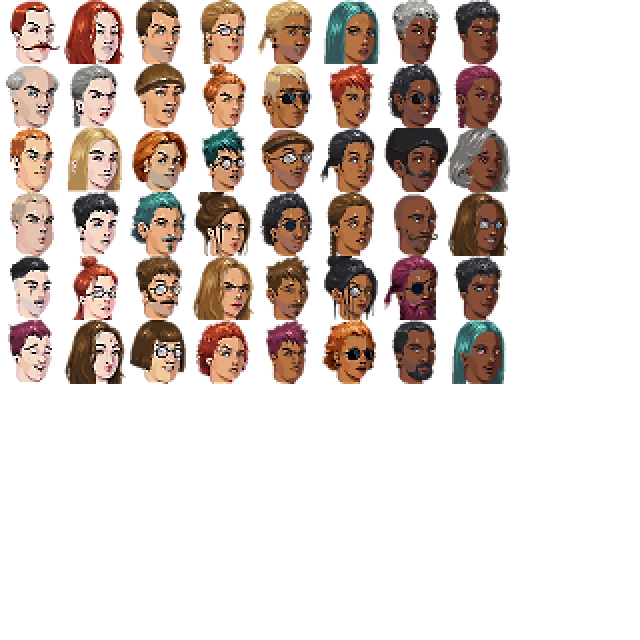
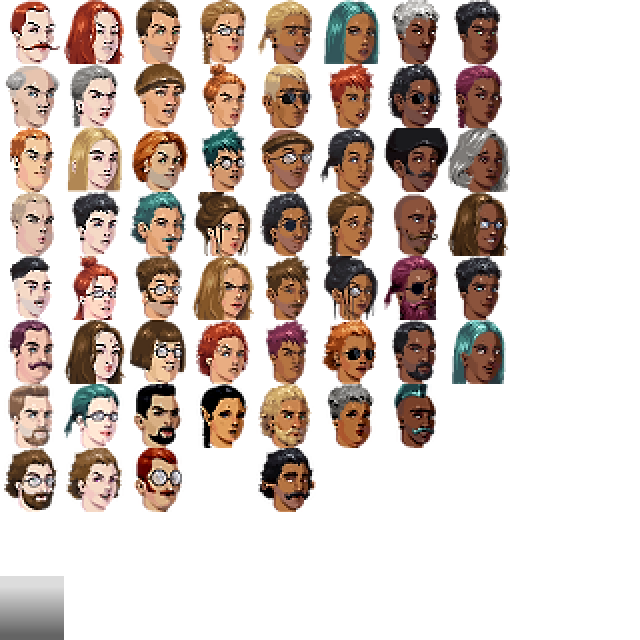
converse additions

diff --git a/src/main/kotlin/render/tilesets/PortraitTileSet.kt b/src/main/kotlin/render/tilesets/PortraitTileSet.kt
@@ -4,6 +4,7 @@ import render.tileholders.SimpleTile
 
 fun PortraitTileSet() =
     TileSet(SpriteSheets.Sheet.PortraitSprites).apply {
+        setTile(Glyph.PORTRAIT_SHADE, SimpleTile(this, 0, 9))
 
         setTile(Glyph.PORTRAIT_PALE_M_1, SimpleTile(this, 0, 0))
         setTile(Glyph.PORTRAIT_PALE_M_2, SimpleTile(this, 0, 1))
@@ -11,6 +12,8 @@ fun PortraitTileSet() =
         setTile(Glyph.PORTRAIT_PALE_M_4, SimpleTile(this, 0, 3))
         setTile(Glyph.PORTRAIT_PALE_M_5, SimpleTile(this, 0, 4))
         setTile(Glyph.PORTRAIT_PALE_M_6, SimpleTile(this, 0, 5))
+        setTile(Glyph.PORTRAIT_PALE_M_7, SimpleTile(this, 0, 6))
+        setTile(Glyph.PORTRAIT_PALE_M_8, SimpleTile(this, 0, 7))
 
         setTile(Glyph.PORTRAIT_PALE_W_1, SimpleTile(this, 1, 0))
         setTile(Glyph.PORTRAIT_PALE_W_2, SimpleTile(this, 1, 1))
@@ -18,6 +21,8 @@ fun PortraitTileSet() =
         setTile(Glyph.PORTRAIT_PALE_W_4, SimpleTile(this, 1, 3))
         setTile(Glyph.PORTRAIT_PALE_W_5, SimpleTile(this, 1, 4))
         setTile(Glyph.PORTRAIT_PALE_W_6, SimpleTile(this, 1, 5))
+        setTile(Glyph.PORTRAIT_PALE_W_7, SimpleTile(this, 1, 6))
+        setTile(Glyph.PORTRAIT_PALE_W_8, SimpleTile(this, 1, 7))
 
         setTile(Glyph.PORTRAIT_WHITE_M_1, SimpleTile(this, 2, 0))
         setTile(Glyph.PORTRAIT_WHITE_M_2, SimpleTile(this, 2, 1))
@@ -25,6 +30,8 @@ fun PortraitTileSet() =
         setTile(Glyph.PORTRAIT_WHITE_M_4, SimpleTile(this, 2, 3))
         setTile(Glyph.PORTRAIT_WHITE_M_5, SimpleTile(this, 2, 4))
         setTile(Glyph.PORTRAIT_WHITE_M_6, SimpleTile(this, 2, 5))
+        setTile(Glyph.PORTRAIT_WHITE_M_7, SimpleTile(this, 2, 6))
+        setTile(Glyph.PORTRAIT_WHITE_M_8, SimpleTile(this, 2, 7))
 
         setTile(Glyph.PORTRAIT_WHITE_W_1, SimpleTile(this, 3, 0))
         setTile(Glyph.PORTRAIT_WHITE_W_2, SimpleTile(this, 3, 1))
@@ -32,6 +39,7 @@ fun PortraitTileSet() =
         setTile(Glyph.PORTRAIT_WHITE_W_4, SimpleTile(this, 3, 3))
         setTile(Glyph.PORTRAIT_WHITE_W_5, SimpleTile(this, 3, 4))
         setTile(Glyph.PORTRAIT_WHITE_W_6, SimpleTile(this, 3, 5))
+        setTile(Glyph.PORTRAIT_WHITE_W_7, SimpleTile(this, 3, 6))
 
         setTile(Glyph.PORTRAIT_TAN_M_1, SimpleTile(this, 4, 0))
         setTile(Glyph.PORTRAIT_TAN_M_2, SimpleTile(this, 4, 1))
@@ -39,6 +47,8 @@ fun PortraitTileSet() =
         setTile(Glyph.PORTRAIT_TAN_M_4, SimpleTile(this, 4, 3))
         setTile(Glyph.PORTRAIT_TAN_M_5, SimpleTile(this, 4, 4))
         setTile(Glyph.PORTRAIT_TAN_M_6, SimpleTile(this, 4, 5))
+        setTile(Glyph.PORTRAIT_TAN_M_7, SimpleTile(this, 4, 6))
+        setTile(Glyph.PORTRAIT_TAN_M_8, SimpleTile(this, 4, 7))
 
         setTile(Glyph.PORTRAIT_TAN_W_1, SimpleTile(this, 5, 0))
         setTile(Glyph.PORTRAIT_TAN_W_2, SimpleTile(this, 5, 1))
@@ -46,6 +56,7 @@ fun PortraitTileSet() =
         setTile(Glyph.PORTRAIT_TAN_W_4, SimpleTile(this, 5, 3))
         setTile(Glyph.PORTRAIT_TAN_W_5, SimpleTile(this, 5, 4))
         setTile(Glyph.PORTRAIT_TAN_W_6, SimpleTile(this, 5, 5))
+        setTile(Glyph.PORTRAIT_TAN_W_7, SimpleTile(this, 5, 6))
 
         setTile(Glyph.PORTRAIT_BLACK_M_1, SimpleTile(this, 6, 0))
         setTile(Glyph.PORTRAIT_BLACK_M_2, SimpleTile(this, 6, 1))
@@ -53,6 +64,7 @@ fun PortraitTileSet() =
         setTile(Glyph.PORTRAIT_BLACK_M_4, SimpleTile(this, 6, 3))
         setTile(Glyph.PORTRAIT_BLACK_M_5, SimpleTile(this, 6, 4))
         setTile(Glyph.PORTRAIT_BLACK_M_6, SimpleTile(this, 6, 5))
+        setTile(Glyph.PORTRAIT_BLACK_M_7, SimpleTile(this, 6, 6))
 
         setTile(Glyph.PORTRAIT_BLACK_W_1, SimpleTile(this, 7, 0))
         setTile(Glyph.PORTRAIT_BLACK_W_2, SimpleTile(this, 7, 1))

diff --git a/src/main/kotlin/ui/modals/ConverseModal.kt b/src/main/kotlin/ui/modals/ConverseModal.kt
@@ -9,6 +9,7 @@ import kotlinx.coroutines.launch
 import ktx.async.KtxAsync
 import render.Screen
 import render.batches.QuadBatch
+import render.tilesets.Glyph
 import ui.input.Keydef
 import ui.input.Mouse
 import util.Stack
@@ -66,7 +67,7 @@ class ConverseModal(
     val optionSpacing = 32
     val headerPad = 50
     val portraitSize = 96
-    val portraitXpad = if (portrait == null) 0 else 112
+    val portraitXpad = if (portrait == null) 0 else 120
 
     init {
         zoomWhenOpen = 1.8f
@@ -95,6 +96,8 @@ class ConverseModal(
         }
         if (topicStack.isNotEmpty()) {
             nextOptions.add(Option("back", if (nextOptions.isEmpty()) "Anyway..." else "Never mind."))
+        } else if (talker.willTrade()) {
+            nextOptions.add(Option("trade", talker.tradeMsg()) { openTrade() } )
         }
         nextOptions.add(Option("bye", "Goodbye.") { endConversation() })
 
@@ -106,6 +109,11 @@ class ConverseModal(
         log.info("text: ${scene?.text}")
         log.info("options: ${scene?.options}")
         log.info("portrait: ${talker.portraitGlyph()}")
+    }
+
+    fun openTrade() {
+        dismiss()
+        Screen.addModal(TradeModal(talker))
     }
 
     fun endConversation() {
@@ -170,7 +178,7 @@ class ConverseModal(
         val localX = screenX - x
         val localY = screenY - y
         if (localX in 1 until width) {
-            val hoverOption = (localY - optionStartY - 1) / optionSpacing
+            val hoverOption = (localY - optionStartY + 4) / optionSpacing
             if (hoverOption in 0..maxSelection) {
                 return hoverOption
             }
@@ -195,7 +203,7 @@ class ConverseModal(
             scene.options.forEach { option ->
                 drawString(
                     option.question, padding, optionStartY + n * optionSpacing,
-                    if (n == selection) Screen.fontColorBold else Screen.fontColor
+                    if (n == selection) Screen.fontColorBold else Screen.fontColorDull
                 )
                 n++
             }
@@ -204,16 +212,24 @@ class ConverseModal(
 
     override fun drawBackground() {
         super.drawBackground()
-        val boxPadding = -2
-        val boxY = optionStartY + optionSpacing * selection
-        if (!isAnimating() && selection >= 0) {
-            drawSelectionBox(padding - boxPadding, boxY - boxPadding,
-                width - (padding*2) + boxPadding*2 - 4, optionSpacing + boxPadding*2 - 4)
+        if (!isAnimating()) {
+            val boxPadding = -2
+            val boxY = optionStartY + optionSpacing * selection
+            if (selection >= 0) {
+                drawSelectionBox(
+                    padding - boxPadding, boxY - boxPadding,
+                    width - (padding * 2) + boxPadding * 2 - 4, optionSpacing + boxPadding * 2 - 4
+                )
+            }
         }
     }
 
     private fun drawPortrait() {
+        val shadePad = 8
         portrait?.also { portrait ->
+            portraitBatch.addPixelQuad(x + padding - shadePad, y + padding + headerPad - shadePad,
+                x + padding + portraitSize + shadePad, y + padding + headerPad + portraitSize + shadePad, portraitBatch.getTextureIndex(
+                    Glyph.PORTRAIT_SHADE))
             portraitBatch.addPixelQuad(x + padding, y + padding + headerPad,
                 x + padding + portraitSize, y + padding + headerPad + portraitSize, portraitBatch.getTextureIndex(portrait))
         }

diff --git a/src/main/kotlin/render/tilesets/Glyph.kt b/src/main/kotlin/render/tilesets/Glyph.kt
@@ -70,6 +70,7 @@ enum class Glyph {
     HOSTILE_OTHER_ICON,
     FLEEING_ICON,
     QUESTION_ICON,
+    TRADE_ICON,
     INVENTORY_ALL,
     INVENTORY_GEAR,
     INVENTORY_TOOLS,
@@ -298,53 +299,70 @@ enum class Glyph {
     MAP_COLOR_14,
     MAP_COLOR_15,
 
+    PORTRAIT_SHADE,
     PORTRAIT_PALE_M_1,
     PORTRAIT_PALE_M_2,
     PORTRAIT_PALE_M_3,
     PORTRAIT_PALE_M_4,
     PORTRAIT_PALE_M_5,
     PORTRAIT_PALE_M_6,
+    PORTRAIT_PALE_M_7,
+    PORTRAIT_PALE_M_8,
     PORTRAIT_PALE_W_1,
     PORTRAIT_PALE_W_2,
     PORTRAIT_PALE_W_3,
     PORTRAIT_PALE_W_4,
     PORTRAIT_PALE_W_5,
     PORTRAIT_PALE_W_6,
+    PORTRAIT_PALE_W_7,
+    PORTRAIT_PALE_W_8,
     PORTRAIT_WHITE_M_1,
     PORTRAIT_WHITE_M_2,
     PORTRAIT_WHITE_M_3,
     PORTRAIT_WHITE_M_4,
     PORTRAIT_WHITE_M_5,
     PORTRAIT_WHITE_M_6,
+    PORTRAIT_WHITE_M_7,
+    PORTRAIT_WHITE_M_8,
     PORTRAIT_WHITE_W_1,
     PORTRAIT_WHITE_W_2,
     PORTRAIT_WHITE_W_3,
     PORTRAIT_WHITE_W_4,
     PORTRAIT_WHITE_W_5,
     PORTRAIT_WHITE_W_6,
+    PORTRAIT_WHITE_W_7,
+    PORTRAIT_WHITE_W_8,
     PORTRAIT_TAN_M_1,
     PORTRAIT_TAN_M_2,
     PORTRAIT_TAN_M_3,
     PORTRAIT_TAN_M_4,
     PORTRAIT_TAN_M_5,
     PORTRAIT_TAN_M_6,
+    PORTRAIT_TAN_M_7,
+    PORTRAIT_TAN_M_8,
     PORTRAIT_TAN_W_1,
     PORTRAIT_TAN_W_2,
     PORTRAIT_TAN_W_3,
     PORTRAIT_TAN_W_4,
     PORTRAIT_TAN_W_5,
     PORTRAIT_TAN_W_6,
+    PORTRAIT_TAN_W_7,
+    PORTRAIT_TAN_W_8,
     PORTRAIT_BLACK_M_1,
     PORTRAIT_BLACK_M_2,
     PORTRAIT_BLACK_M_3,
     PORTRAIT_BLACK_M_4,
     PORTRAIT_BLACK_M_5,
     PORTRAIT_BLACK_M_6,
+    PORTRAIT_BLACK_M_7,
+    PORTRAIT_BLACK_M_8,
     PORTRAIT_BLACK_W_1,
     PORTRAIT_BLACK_W_2,
     PORTRAIT_BLACK_W_3,
     PORTRAIT_BLACK_W_4,
     PORTRAIT_BLACK_W_5,
     PORTRAIT_BLACK_W_6,
+    PORTRAIT_BLACK_W_7,
+    PORTRAIT_BLACK_W_8,
 
 }

diff --git a/src/main/kotlin/world/quests/Quest.kt b/src/main/kotlin/world/quests/Quest.kt
@@ -28,6 +28,8 @@ sealed class Quest(
 
     var giverID: String? = null
 
+    var haggled = false // Did we haggle for the reward?
+
     // Do we need a specific giver assigned?
     open fun needsGiver() = true
 
@@ -60,6 +62,7 @@ sealed class Quest(
     open fun mentionMsg(): String = "I've got a job for you.  Interested?"
     open fun offerMsg(): String = "I need you to do a certain thing.  Will you help?"
     open fun thanksMsg(): String = "Thanks again for your help."
+    open fun haggleMsg(): String = "I don't have much, but I could possibly scrape up...$$$?  How does that sound?"
     open fun acceptMsg(): String = "Thanks, and good luck.  Come back when you've done it."
     open fun refuseMsg(): String = "That's too bad.  I suppose I'll find someone eventually."
     open fun remindMsg(): String = "You take care of that thing yet?"
@@ -76,8 +79,13 @@ sealed class Quest(
                 else -> null
             }
             "quest_${id}_offer" -> Scene(topic, offerMsg(), listOf(
+                Option("quest_${id}_haggle", "What's in it for Thundarr?") { haggled = true },
                 Option("quest_${id}_accept", "I'll see what I can do.") { this.accept() },
                 Option("quest_${id}_refuse", "I just don't have time.") { this.refuse() },
+            ))
+            "quest_${id}_haggle" -> Scene(topic, haggleMsg().replace("$$$", "\$${cashReward()}"), listOf(
+                Option("quest_${id}_accept", "It's a deal.") { this.accept() },
+                Option("quest_${id}_refuse", "Sorry, not worth it.") { this.refuse() },
             ))
             "quest_${id}_accept" -> Scene(topic, acceptMsg(), listOf())
             "quest_${id}_refuse" -> Scene(topic, refuseMsg(), listOf())

diff --git a/src/main/kotlin/actors/NPC.kt b/src/main/kotlin/actors/NPC.kt
@@ -175,6 +175,8 @@ sealed class NPC : Actor() {
 
     open fun hasConversation() = false
     open fun conversationSources(): List<ConverseModal.Source> = listOf()
+    open fun willTrade() = false
+    open fun tradeMsg() = "I have wares to trade, if barbarian has coin."
 
     override fun onConverse(actor: Actor): Boolean {
         if (actor is Player && hasConversation()) {
@@ -196,6 +198,7 @@ sealed class NPC : Actor() {
     override fun drawStatusGlyphs(drawIt: (Glyph) -> Unit) {
         super.drawStatusGlyphs(drawIt)
         if (hasConversation()) drawIt(Glyph.QUESTION_ICON)
+        if (willTrade()) drawIt(Glyph.TRADE_ICON)
         state.drawStatusGlyphs(drawIt)
     }
 

diff --git a/src/main/kotlin/actors/Citizen.kt b/src/main/kotlin/actors/Citizen.kt
@@ -94,8 +94,7 @@ sealed class Citizen : NPC(), ConverseModal.Source {
                 if (introducedToPlayer) "Hello again, Thundarr." else {
                     introducedToPlayer = true
                     "Nice to meet you Thundarr, I'm ${name()}."
-                },
-                listOf())
+                }, listOf())
         }
         return null
     }

diff --git a/src/main/kotlin/ui/modals/TradeModal.kt b/src/main/kotlin/ui/modals/TradeModal.kt
@@ -1,0 +1,15 @@
+package ui.modals
+
+import actors.NPC
+
+class TradeModal(
+    private val trader: NPC,
+    position: Modal.Position = Modal.Position.LEFT,
+) : Modal(
+    650, 400, trader.iname(),
+    position = position,
+) {
+
+
+
+}
